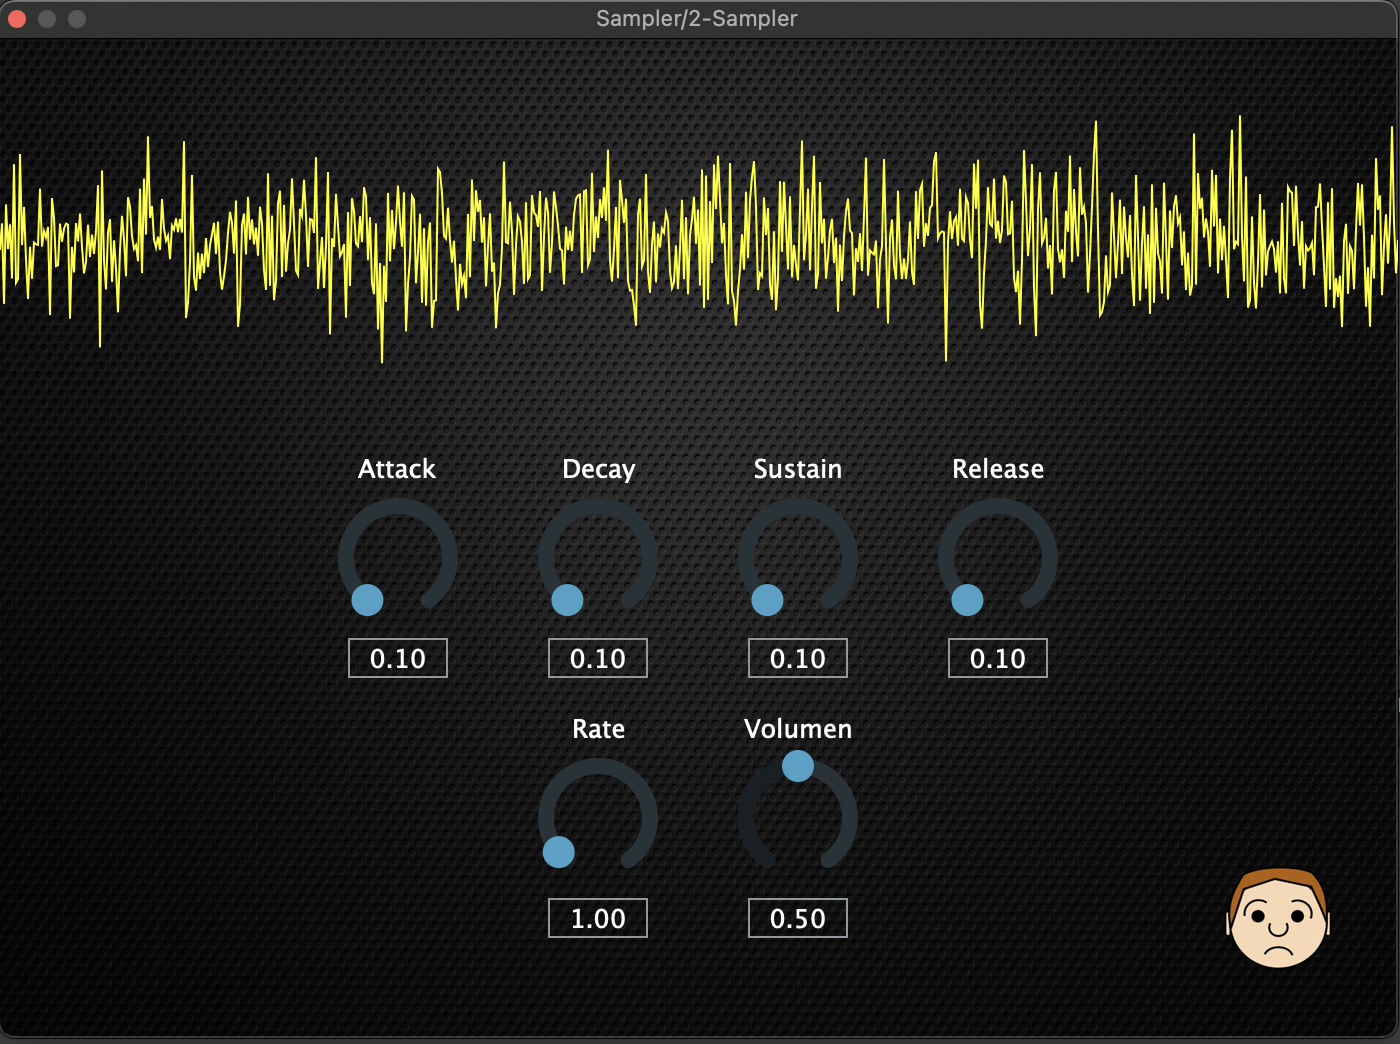
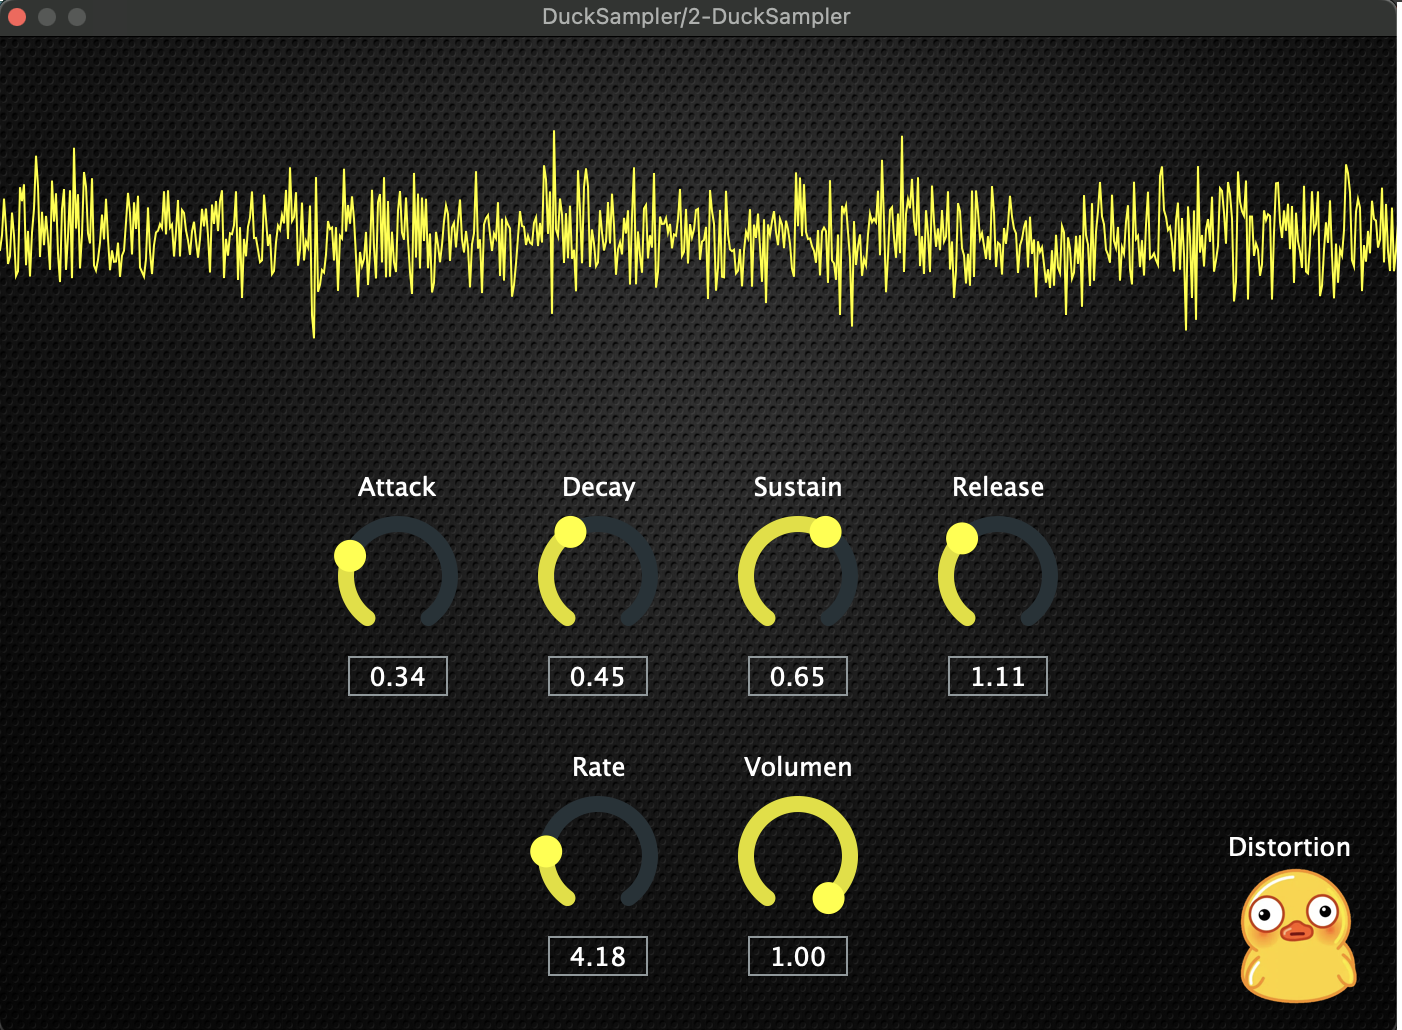
Some fixes

diff --git a/port.html b/port.html
@@ -138,13 +138,13 @@
                 <div class="swiper-slide" style="background-image: url(img/Plugins/backSam.jpg)">
                     <img src="img/Plugins/sampler.png" alt="">
                     <div class="info">
-                        <h3>Sampler</h3>
-                        <h4>Sampler con distorsión y LFO.</h4>
+                        <h3>Duck Sampler</h3>
+                        <h4>Sampler con adsr, distorsión y LFO.</h4>
                         <div class="techIcons">
                             <img src="img/techs/c.png" alt="">
                             <img src="img/techs/juce.png" alt="" class="juceImg">
                         </div>
-                        <a href="https://github.com/jsvaldezv/Sampler_Plug-in" target="_blank" class="see sampler">
+                        <a href="https://github.com/jsvaldezv/DuckSampler" target="_blank" class="see sampler">
                             <p >Code</p>
                             <img src="img/icons/arrowP.png" alt="" class="arrowP">
                         </a>
@@ -161,7 +161,7 @@
                             <img src="img/techs/c.png" alt="">
                             <img src="img/techs/juce.png" alt="" class="juceImg">
                         </div>
-                        <a href="https://github.com/jsvaldezv/SynthTaller" target="_blank" class="see duckSee">
+                        <a href="https://github.com/jsvaldezv/DuckSynth" target="_blank" class="see duckSee">
                             <p >Code</p>
                             <img src="img/icons/arrowP.png" alt="" class="arrowP">
                         </a>
@@ -210,7 +210,7 @@
         </div>
     </div>
 
-    <!-- A.I. -->
+    <!-- I.A. -->
     <div class="plugins">
         <h2 class="title">Inteligencia Artificial</h2>
         <div class="swiper">

diff --git a/css/main.css b/css/main.css
@@ -250,11 +250,6 @@
 .info h3:hover{
     background-color: var(--hover-color);
 }
-.linea{
-    width: 20%;
-    height: 1px;
-    background-color: var(--dark-color)
-}
 @media screen and (max-width: 815px)
 {
     .about{

diff --git a/css/general.css b/css/general.css
@@ -266,3 +266,9 @@ header {
     height: 100vh;
     background: linear-gradient(to left, #ba7453, #d1a984);
 }
+
+.linea{
+    width: 20%;
+    height: 1px;
+    background-color: var(--dark-color)
+}

diff --git a/css/port.css b/css/port.css
@@ -42,6 +42,7 @@
     justify-content: center;
     align-items: center;
     font-size:60px;
+    border-radius: 20px;
 }
 .swiper-slide img{
     width:400px;
